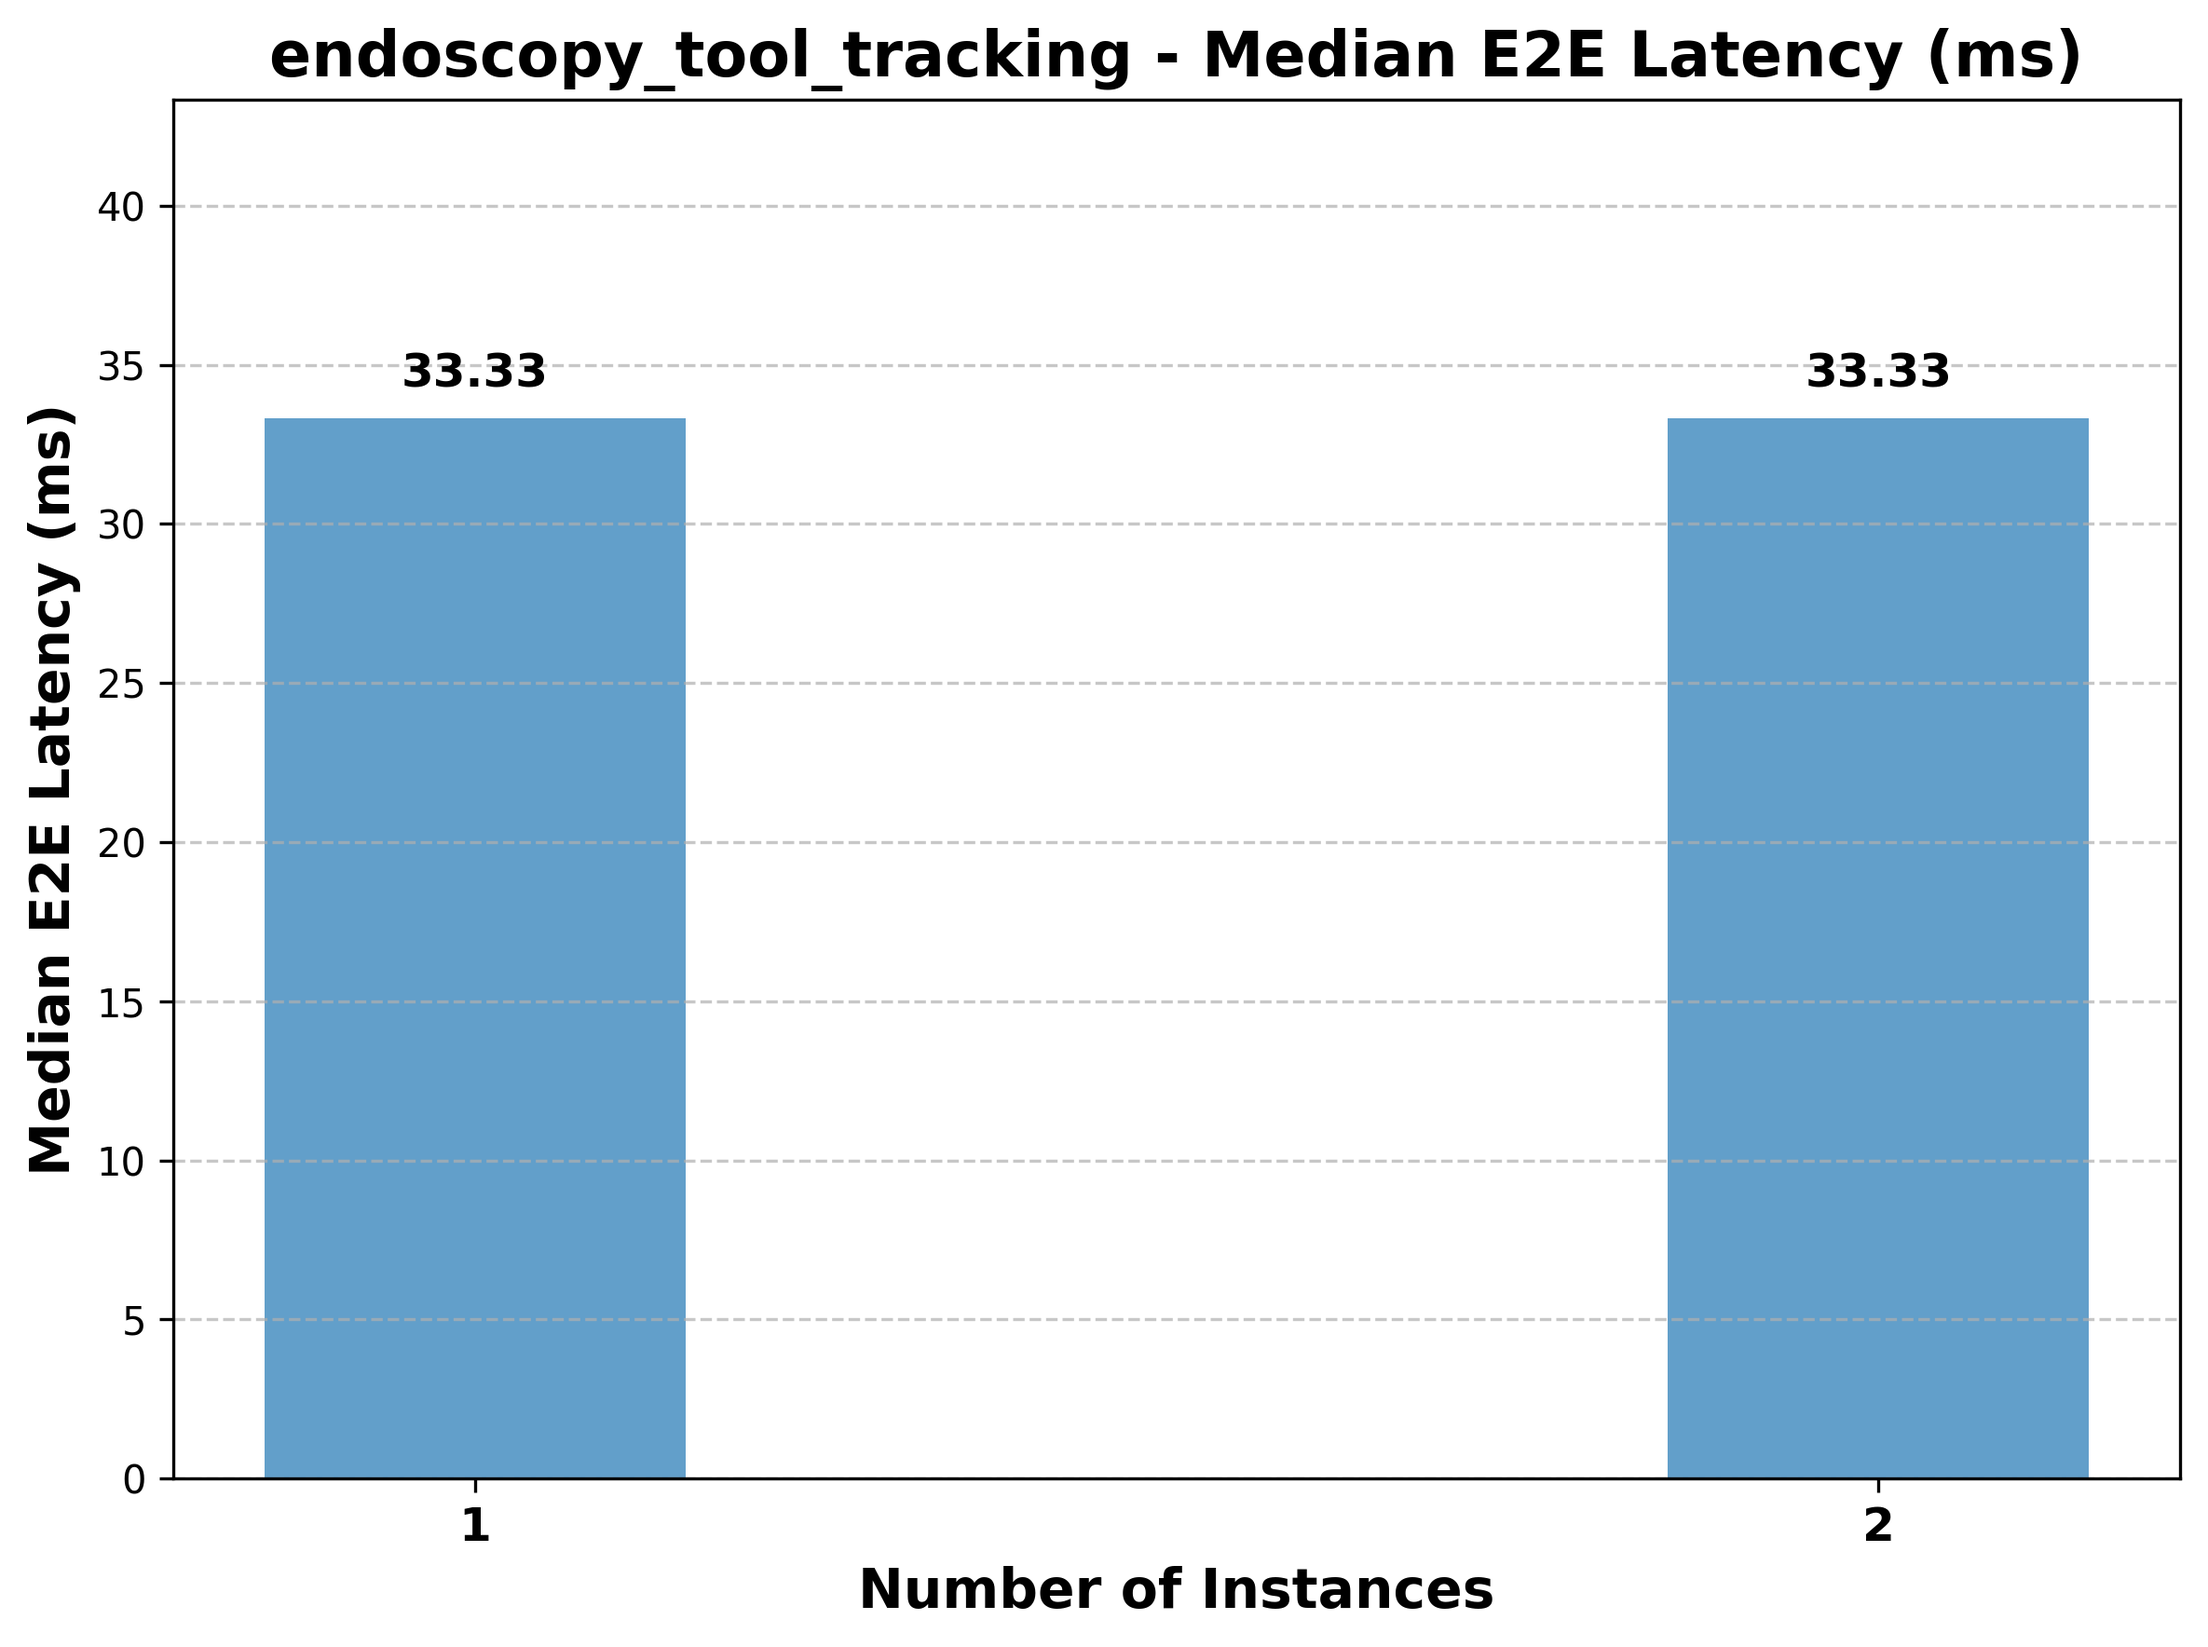
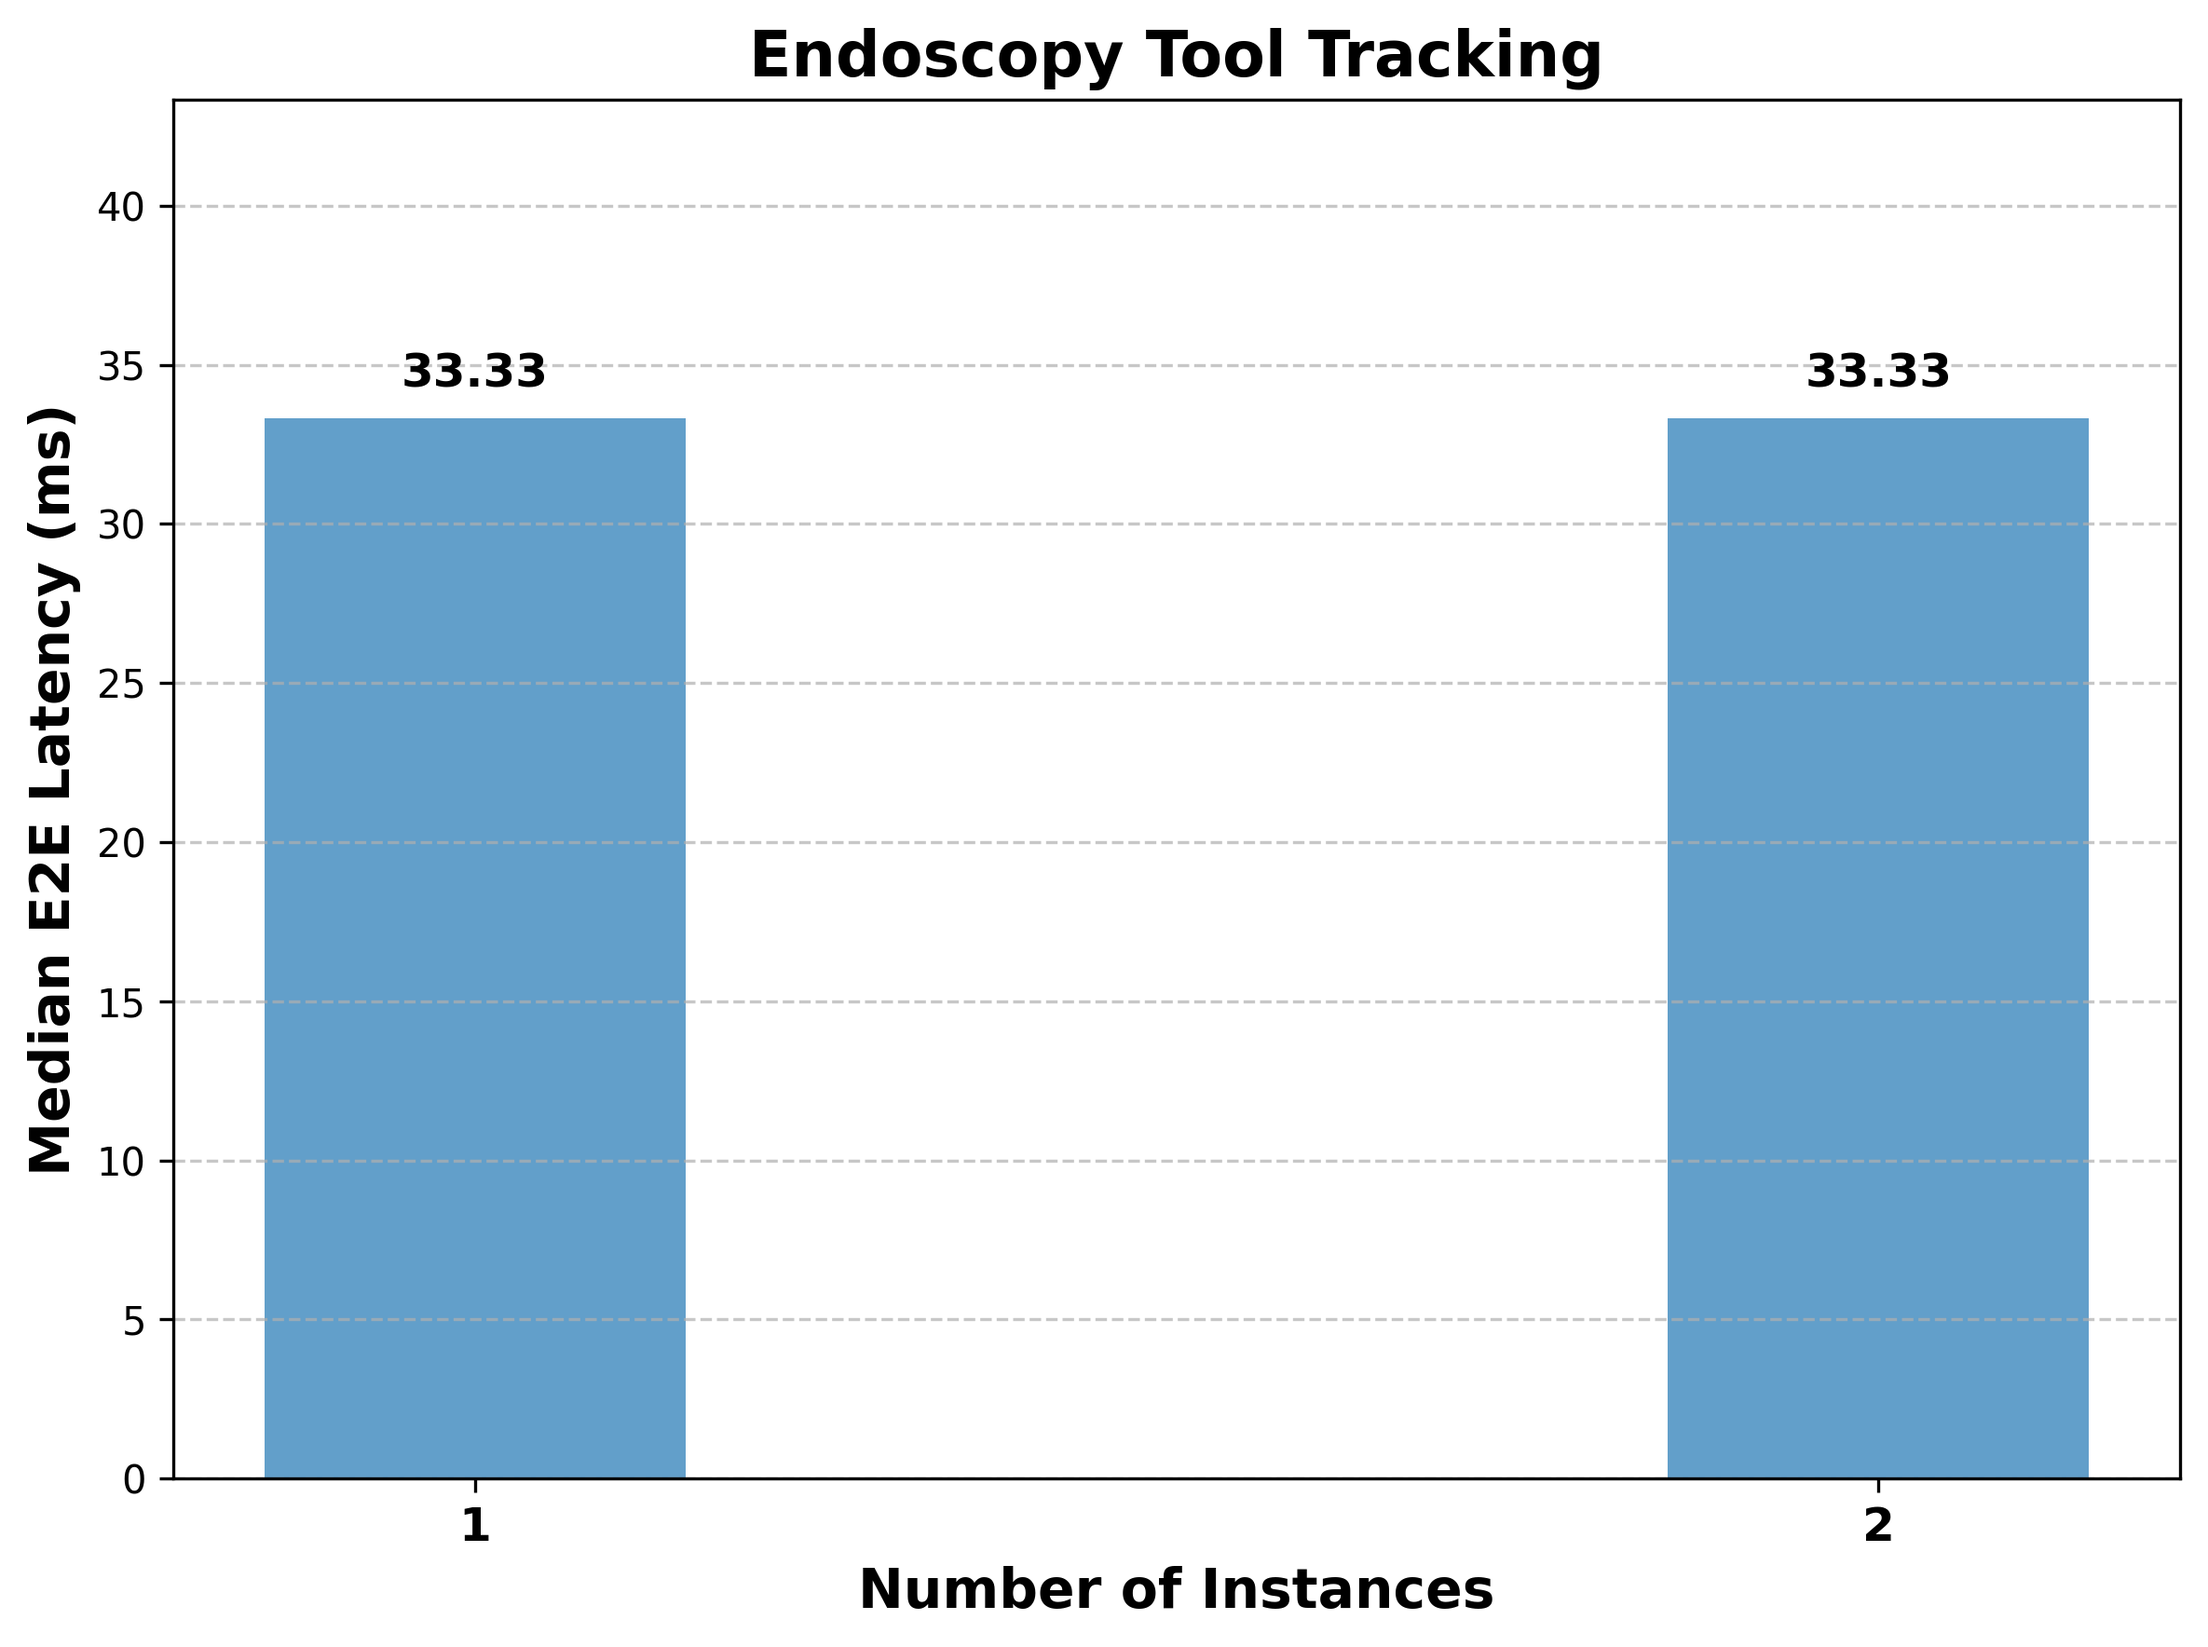
fixed plot title

Changed region(s): [[0.1249, 0.0, 0.9367, 0.0622]]

diff --git a/benchmarks/release_benchmarking/release/v3.3.0/v3.3.md b/benchmarks/release_benchmarking/release/v3.3.0/v3.3.md
@@ -152,8 +152,6 @@ Negative values indicate speedup with comparison to v3.0.0 results, while positi
 
 #### Holoviz Mutex Optimization
 
-This table shows the comparison between regular rendering and holoviz mutex rendering for endoscopy tool tracking on different platforms.
-
 | Statistic | x86_64 (ADA6000) | IGX dGPU (A6000) |
 | ---------------------------- | ------ | ------ |
 | Mean | ![image](holoviz_mutex_comparison_plots/x86/avg_comparison.png) | ![image](holoviz_mutex_comparison_plots/IGX/avg_comparison.png) |
